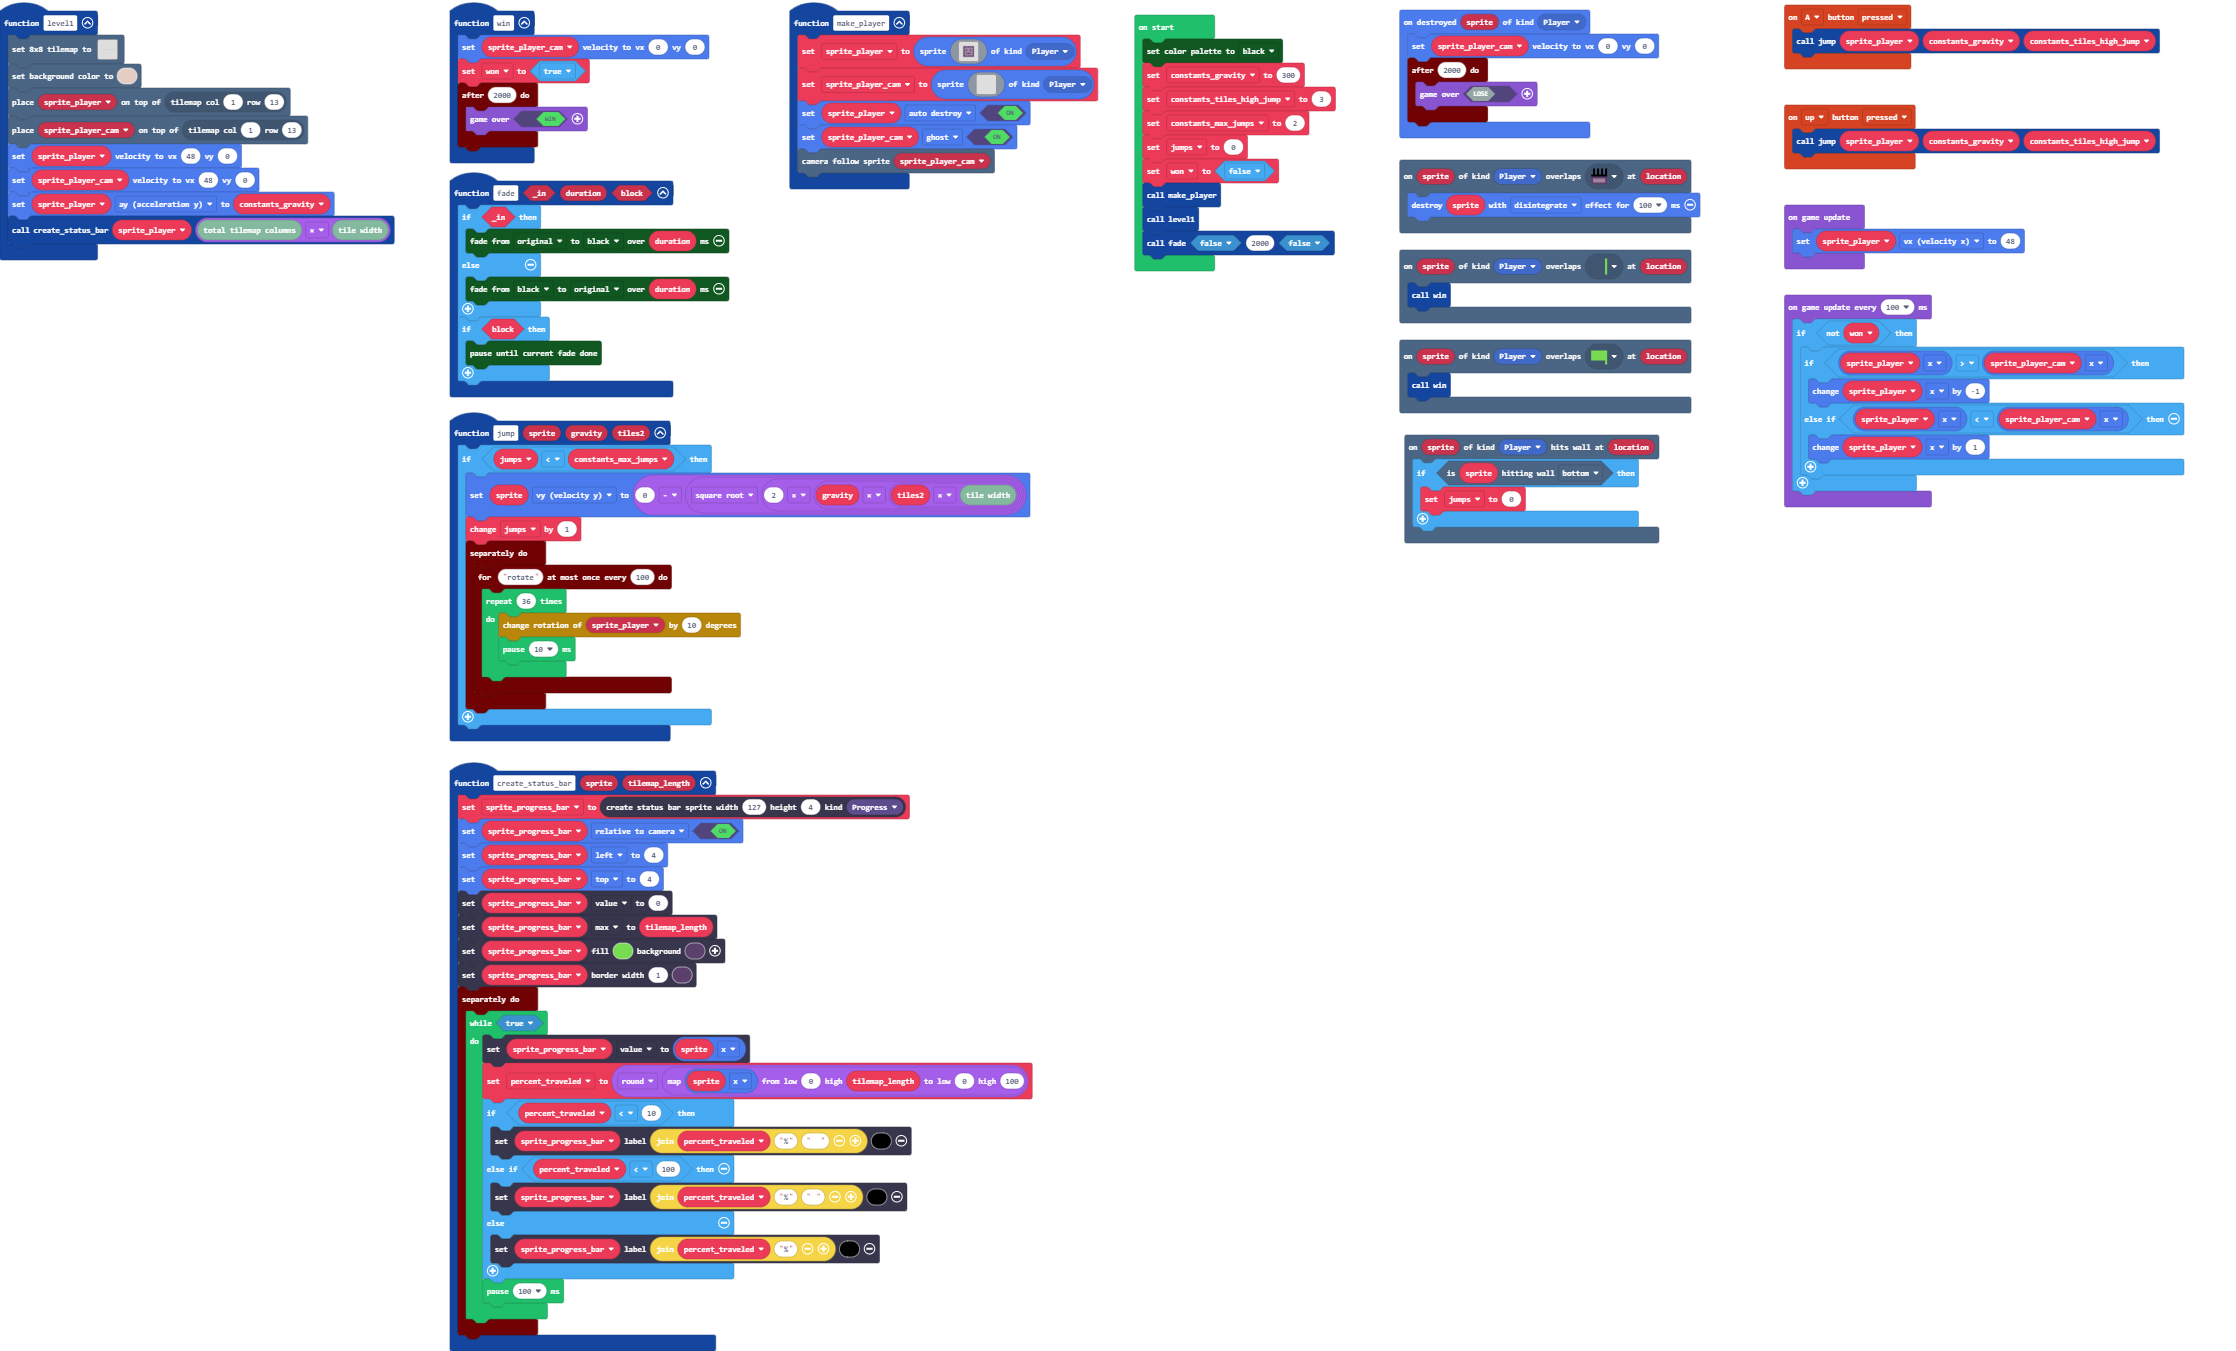
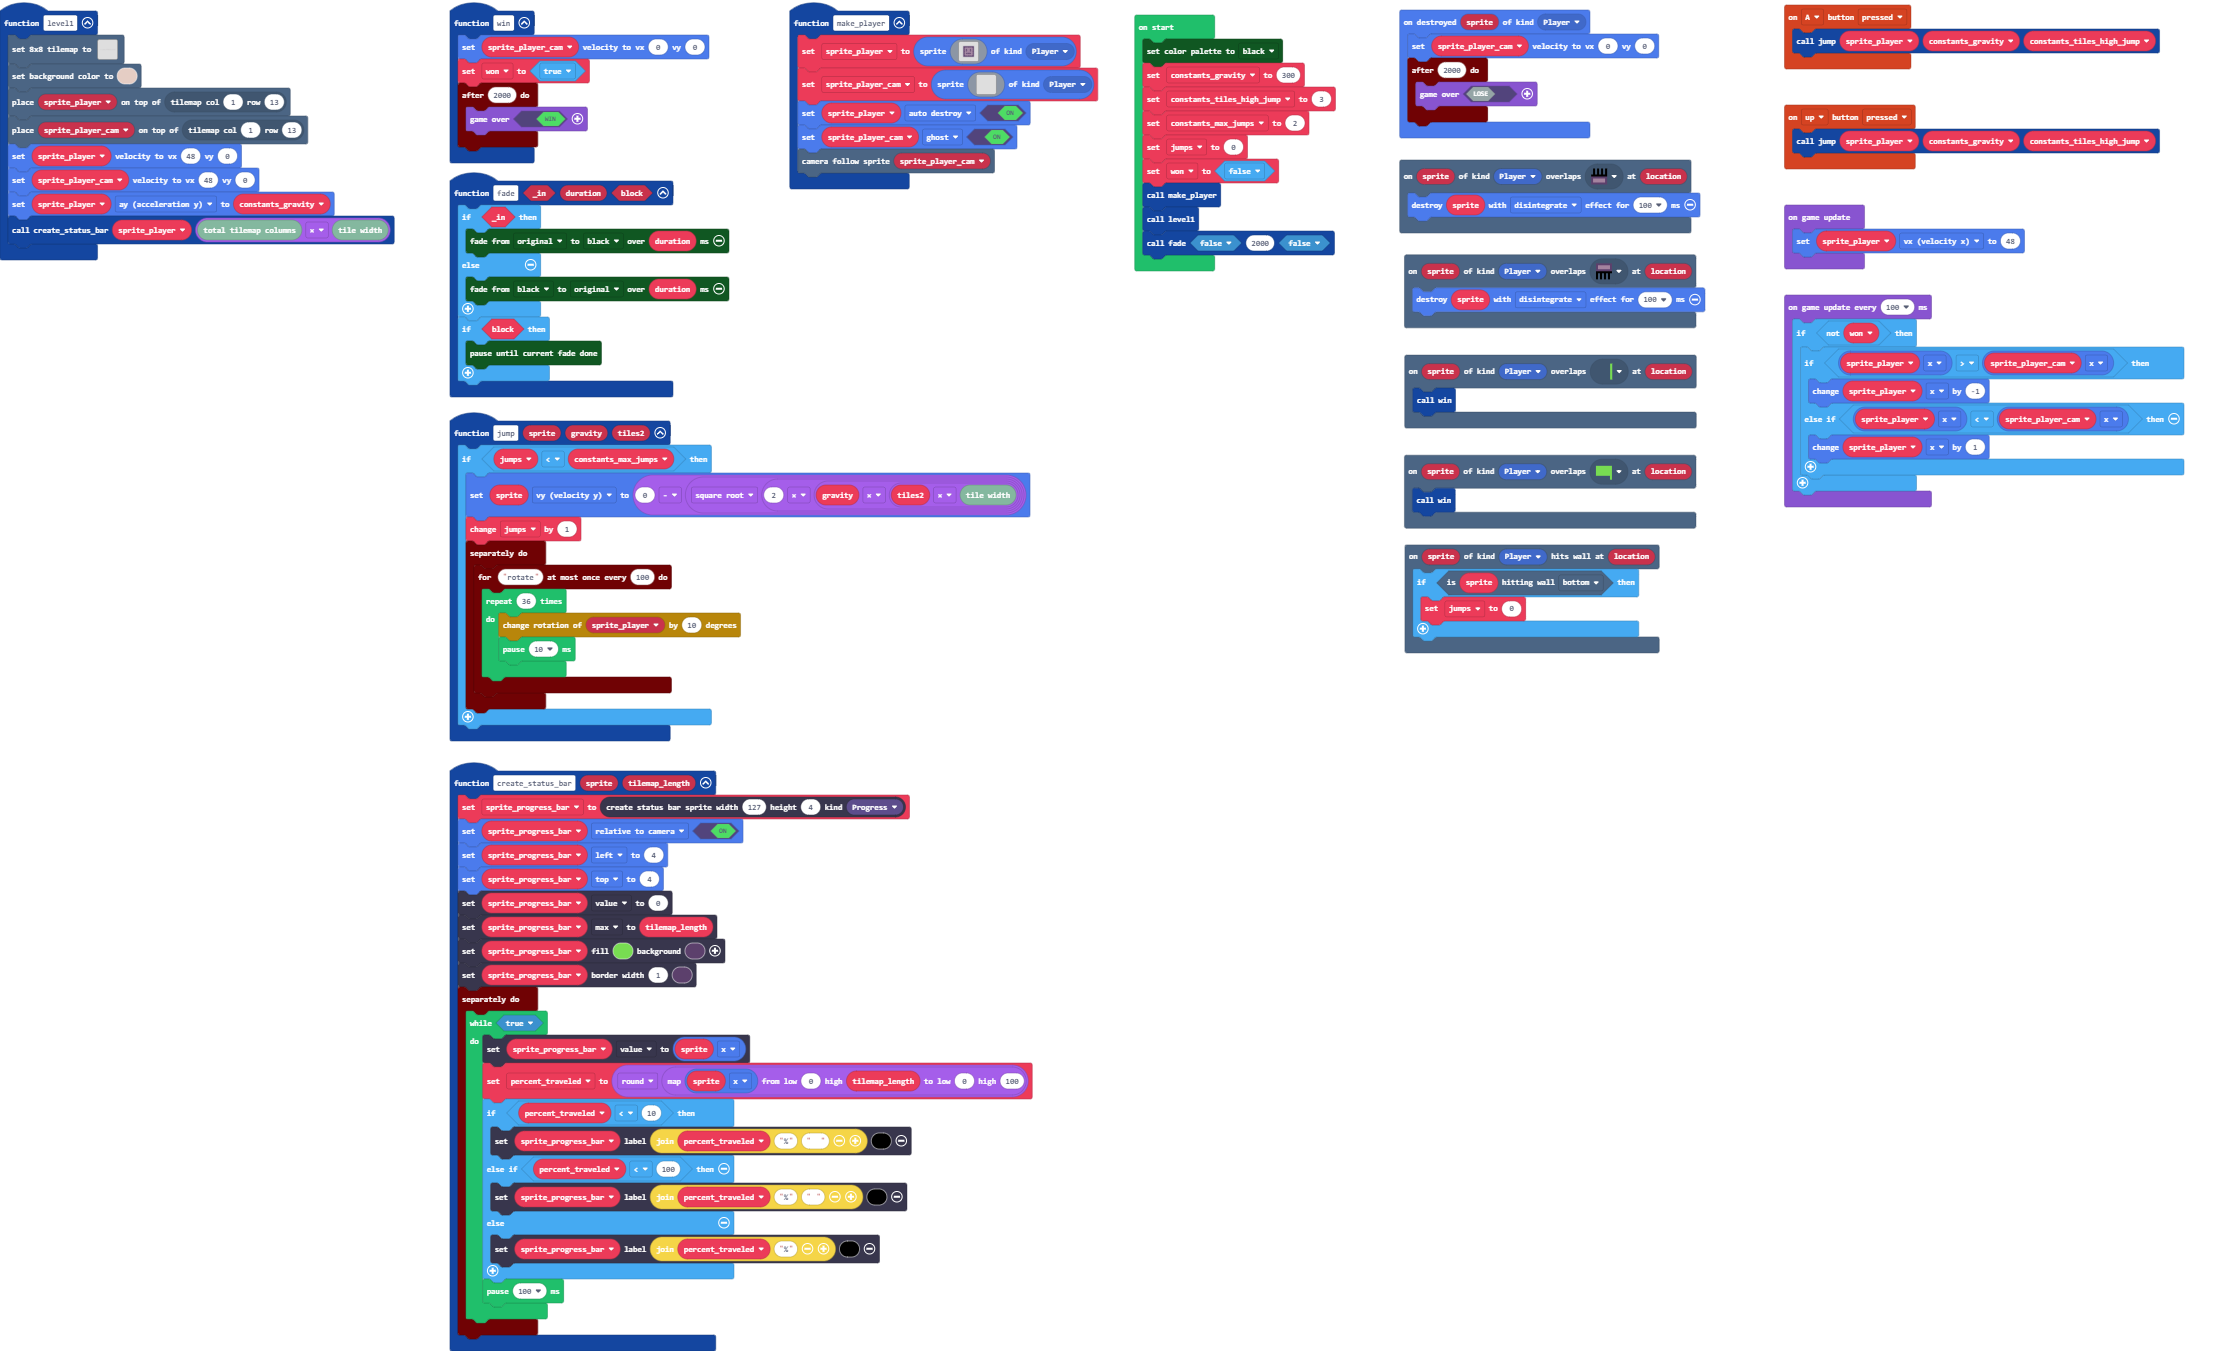
Destroy player when touching downward spikes

Changed region(s): [[0.6172, 0.1865, 0.7715, 0.4974]]

diff --git a/main.ts b/main.ts
@@ -97,6 +97,9 @@ function make_player () {
     sprite_player_cam.setFlag(SpriteFlag.Ghost, true)
     scene.cameraFollowSprite(sprite_player_cam)
 }
+scene.onOverlapTile(SpriteKind.Player, myTiles.tile7, function (sprite, location) {
+    sprite.destroy(effects.disintegrate, 100)
+})
 function jump (sprite: Sprite, gravity: number, tiles2: number) {
     if (jumps < constants_max_jumps) {
         sprite.vy = 0 - Math.sqrt(2 * (gravity * (tiles2 * tiles.tileWidth())))
